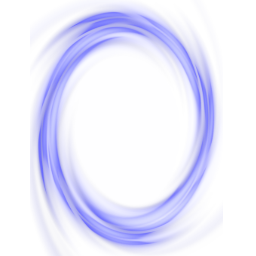
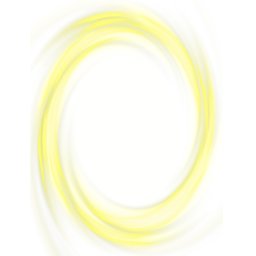
added: visited portal image, description, restyled portal panel

Changed region(s): [[0.125, 0.0312, 0.8438, 1.0]]

diff --git a/js/houlu/HOulu.js b/js/houlu/HOulu.js
@@ -14,8 +14,6 @@ HOulu.init = function(scen, cam, cam2)
 	this.currPortal; // accessed from FreeLock.onMouseMove
 	$.getJSON( "data/data.json", function( data )
 	{
-	console.log(">>>" + data.d.length);
-		
 		for (var i = 0; i < data.d.length; i++)
 			HOulu._addHistoricalImage(data.d[i], i == data.d.length - 1);
 	});
@@ -64,13 +62,13 @@ HOulu.onKeyDown = function(e)
 		case 32: // space
 			if (!Loader.complete) return;
 			
-			if (HOulu.paused)
+			if (HOulu.paused) // leave splash and start
 			{
-				//$("#portalPanel").hide('slide', {direction: 'right'}, 1000);
 				HOulu.paused = false;
 				
-				TweenLite.to($("#title"), .5, {css:{top:"-=100", alpha:0}, ease:Back.easeIn.config(4)});
+				TweenMax.killTweensOf("#title");
 				TweenMax.killTweensOf("#pressStart");
+				TweenLite.to($("#title"), .5, {css:{top:"-=100", alpha:0}, ease:Back.easeIn.config(4)});
 				TweenLite.to($("#pressStart"), .5, {css:{bottom:"-=100", alpha:0}, ease:Back.easeIn.config(4)});
 				
 				$("#hud").show();
@@ -84,40 +82,44 @@ HOulu.onKeyDown = function(e)
 				HOulu.currPortal = HOulu._getNearPortal();
 				if (HOulu.currPortal) // enter portal
 				{
-					TweenMax.killTweensOf("#portalPanel");
-					TweenMax.to($("#portalPanel"), .5, {css:{right:-70}, ease:Back.easeOut.config(2)});
-					
+					// show historical image
 					var img = HOulu.currPortal.targetImage;
 					img.material.opacity = 0;
 					img.visible = true;
-					
 					TweenLite.to(img.material, 2, {opacity: 1, delay: .5});
 					
+					// set player rotation angle
 					yawObject.position.x = img.d.cx;
 					yawObject.position.z = img.d.cz;
-					//yawObject.rotation.y = img.d.cry;
-					//pitchObject.rotation.x = img.d.crx;
-					
 					TweenLite.to(yawObject.rotation, .5, {y: img.d.cry, ease: Linear.easeOut});
 					TweenLite.to(pitchObject.rotation, .5, {x: img.d.crx, ease: Linear.easeOut});
 					
-					HOulu._hidePortals();
+					// show the portal panel
+					TweenMax.killTweensOf("#portalPanel");
+					TweenMax.to($("#portalPanel"), .5, {css:{right:-70}, ease:Back.easeOut.config(1)});
+					$("#portalPanel .description").html(img.d.desc);
 					
-					if (!HOulu.currPortal.viewed) // score
-					{
-						HOulu._score ++;
-						HOulu.currPortal.viewed = true;
-						
-						console.log("score: ", HOulu._score);
-					}
+					HOulu._hidePortals();
 				}
 			}
 			else // leave portal
 			{
+				// hide the portal panel
 				TweenMax.killTweensOf("#portalPanel");
-				TweenMax.to($("#portalPanel"), .5, {css:{right:-600}, ease:Back.easeIn.config(2)});
+				TweenMax.to($("#portalPanel"), .5, {css:{right:-700}, ease:Back.easeIn.config(1)});
 				
 				TweenMax.killTweensOf(HOulu.currPortal.targetImage.material);
+				
+				if (!HOulu.currPortal.viewed) // score
+				{
+					HOulu._score ++;
+					HOulu.currPortal.viewed = true;
+					
+					HOulu.currPortal.material.map = THREE.ImageUtils.loadTexture("img/portal_visited.png");
+					
+					console.log("score: ", HOulu._score);
+				}
+					
 				
 				HOulu.currPortal.targetImage.visible = false;
 				HOulu.currPortal = null;
@@ -185,7 +187,7 @@ HOulu.onKeyDown = function(e)
 			break;
 		
 		case 90: // Z
-			var template = '{"url":"{url}","px":{px},"pz":{pz},"ix":{ix},"iy":{iy},"iz":{iz},"iry":{iry},"iw":{iw},"ih":{ih},"cx":{cx},"cz":{cz},"crx":{crx},"cry":{cry}}';
+			var template = '{"url":"{url}","px":{px},"pz":{pz},"ix":{ix},"iy":{iy},"iz":{iz},"iry":{iry},"iw":{iw},"ih":{ih},"cx":{cx},"cz":{cz},"crx":{crx},"cry":{cry}, "desc":{desc}}';
 			var img = HOulu._debugPortal.targetImage;
 			
 			console.log(
@@ -202,6 +204,7 @@ HOulu.onKeyDown = function(e)
 						.replace("{cz}", +yawObject.position.z.toFixed(3))
 						.replace("{crx}", +pitchObject.rotation.x.toFixed(3))
 						.replace("{cry}", +yawObject.rotation.y.toFixed(3))
+						.replace("{desc}", '"' + img.d.desc + '"')
 			);
 	}
 }

diff --git a/css/houlu.min.css b/css/houlu.min.css
@@ -6,6 +6,6 @@ body{background:#222;}
 #pressSpace{position:absolute;z-index:99;margin:auto;top:0;right:0;bottom:0;left:0;width:700px;height:60px;color:white;font:bold 40px tahoma;text-align:center;-webkit-text-stroke-width:1px;-webkit-text-stroke-color:black;text-shadow:4px 4px #000000;display:none;pointer-events:none;}
 #pressStart{position:absolute;z-index:8;bottom:150px;height:60px;right:0;left:0;color:white;font:bold 30px tahoma;text-align:center;-webkit-text-stroke-width:1px;-webkit-text-stroke-color:black;text-shadow:2px 2px #000000;pointer-events:none;display:none;}
 #title{position:absolute;color:#ff9900;font:bold 100px tahoma;text-align:center;-webkit-text-stroke-width:1px;-webkit-text-stroke-color:black;text-shadow:4px 4px #000000;z-index:9;pointer-events:none;top:150px;right:0;left:0;height:100px;display:none;}
-#portalPanel{position:absolute;color:#000;background:rgba(255,255,255,0.5);font:normal 30px tahoma;z-index:9;pointer-events:none;top:150px;right:-600px;width:570px;padding-left:20px;border-radius:15px 0px 0px 15px;}
+#portalPanel{position:absolute;color:black;background:rgba(255,255,255,.6);font:normal 30px tahoma;z-index:9;pointer-events:none;top:150px;right:-700px;width:570px;padding:0 70px 0 20px;border-radius:25px 0px 0px 25px;border:20px solid rgba(0,0,0,.2);background-clip:padding-box;}
 #portalPanel .title{font-size:40px;font-weight:bold;text-align:center;}
 #hud{position:absolute;font:normal 30px tahoma;z-index:9;pointer-events:none;top:150px;right:-600px;width:570px;padding-left:20px;border-radius:15px 0px 0px 15px;}

diff --git a/css/houlu.css b/css/houlu.css
@@ -103,16 +103,18 @@ body
 #portalPanel
 {
 	position: absolute;
-	color: #000;
-	background: rgba(255, 255, 255, 0.5);
+	color: black;
+	background: rgba(255, 255, 255, .6);
 	font: normal 30px tahoma;
 	z-index: 9;
 	pointer-events:none;
     top: 150px;
-    right: -600px; /* -70px=panel visible, -600=panel invisible */
+    right: -700px; /* -70px=panel visible, -680=panel invisible */
 	width: 570px;
-	padding-left: 20px;
-	border-radius: 15px 0px 0px 15px;
+	padding: 0 70px 0 20px;
+	border-radius: 25px 0px 0px 25px;
+	border: 20px solid rgba(0, 0, 0, .2);
+	background-clip: padding-box;
 }
 
 #portalPanel .title
